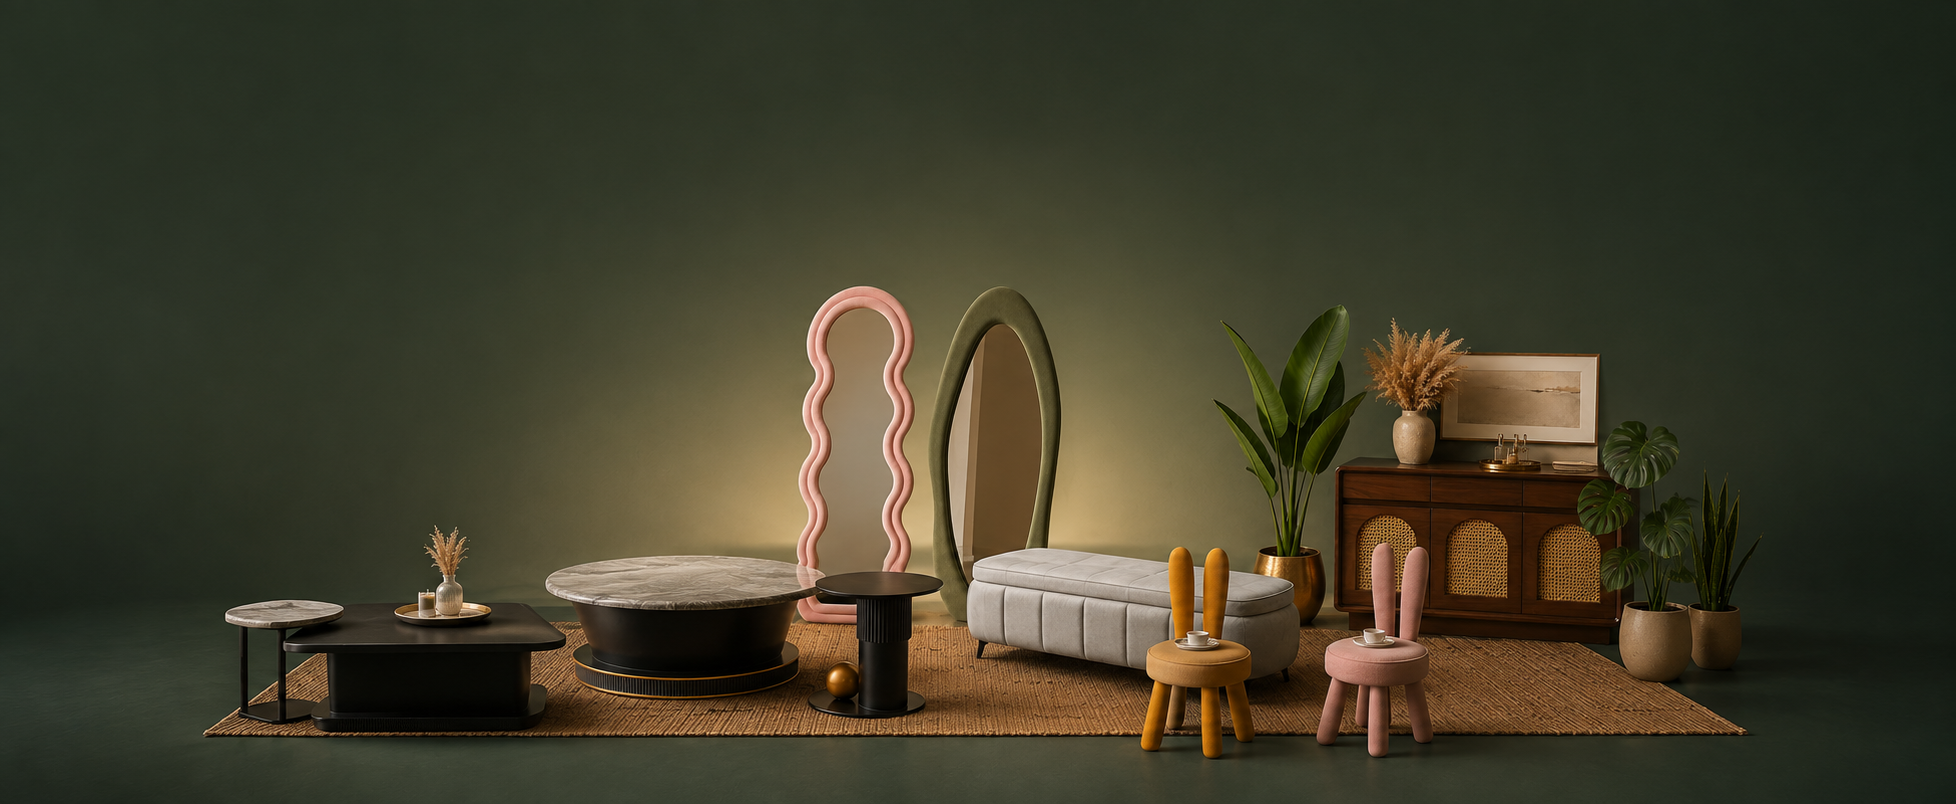
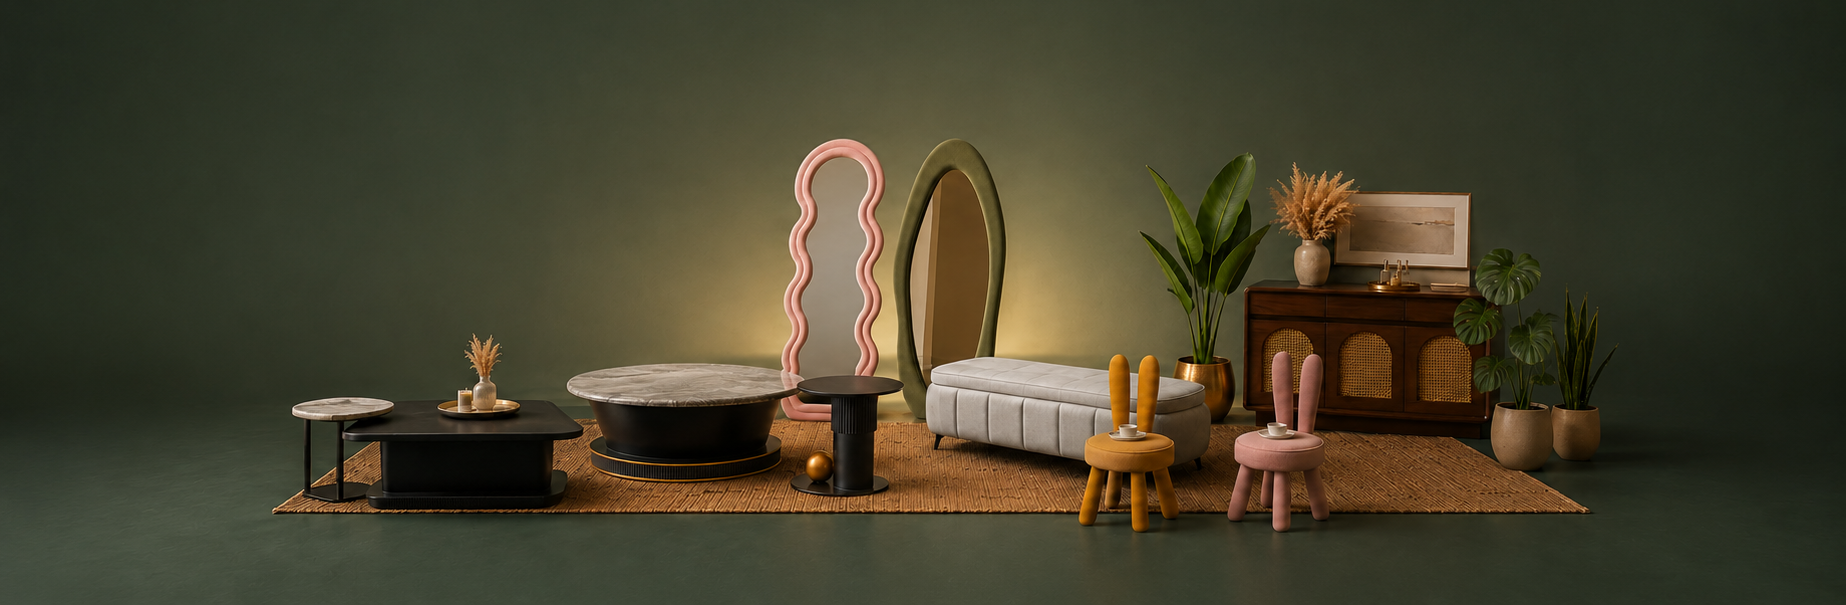
feat: implement 301 redirects for renamed/removed product slugs and enhance 404 handling for missing products and categories

diff --git a/src/components/home/shop-by-category.tsx b/src/components/home/shop-by-category.tsx
@@ -13,20 +13,22 @@ import { useReducedMotion } from "@/lib/use-reduced-motion"
 // photo (still our real product, just not in public/assets) until a
 // dedicated category shot is added there too.
 const CAT_IMAGES: Record<string, string> = {
-  "bedroom-sets":    "/assets/ashcombe-bedroom-set.png",
+  "bedroom-sets":    "/assets/wooden-bedroom-set-furniture-karachi.png",
   beds:              "/assets/wooden-bed-furniture-karachi.png",
   "dressing-tables": "/assets/dressing-table-vanity-furniture-karachi.png",
   wardrobes:         "/assets/wooden-wardrobe-furniture-karachi.png",
-  "side-tables":     "/assets/marble-top-ribbed-nightstand-round-beige-nightstand-2.png",
+  "side-tables":     "/assets/wooden-side-table-furniture-karachi.png",
   decor:             "/assets/wooden-decor-furniture-karachi.png",
 }
 
 // Square mobile crops of the same product photos — used below the lg
 // breakpoint where cards are shorter (120px) and 2-per-row.
 const CAT_IMAGES_MOBILE: Record<string, string> = {
+  "bedroom-sets":    "/assets/wooden-bedroom-set-furniture-karachi-mobile.png",
   beds:              "/assets/wooden-bed-furniture-karachi-mobile.png",
   "dressing-tables": "/assets/dressing-table-vanity-furniture-karachi-mobile.png",
   wardrobes:         "/assets/wooden-wardrobe-furniture-karachi-mobile.png",
+  "side-tables":     "/assets/wooden-side-table-furniture-karachi-mobile.png",
 }
 
 const categoryTones: Record<string, string> = {

diff --git a/next.config.ts b/next.config.ts
@@ -9,6 +9,18 @@ const withSerwist = withSerwistInit({
 
 const nextConfig: NextConfig = {
   turbopack: {},
+  // 301 redirects for product slugs that were renamed/removed so old URLs
+  // (still in Google's index / old backlinks) pass their equity to the
+  // current product instead of 404'ing. Keep in sync with live Sanity slugs.
+  async redirects() {
+    return [
+      { source: "/products/3-door-wardrobe", destination: "/products/glass-niche-wardrobe", permanent: true },
+      { source: "/products/cloud-boucle-bed", destination: "/products/cloud-bubble-bed", permanent: true },
+      { source: "/products/dressing-table-with-mirror", destination: "/shop/dressing-tables", permanent: true },
+      { source: "/products/king-foam-bed", destination: "/shop/beds", permanent: true },
+      { source: "/products/side-table-pair", destination: "/products/cloud-flare-leg-nightstand", permanent: true },
+    ]
+  },
   images: {
     // Next 16 requires an explicit allowlist; restricting it to just 90
     // means every <Image> that doesn't set its own `quality` prop (they

diff --git a/src/app/products/[slug]/page.tsx b/src/app/products/[slug]/page.tsx
@@ -11,7 +11,14 @@ import { BUSINESS_NAME } from "@/lib/site-config"
 export async function generateMetadata({ params }: { params: Promise<{ slug: string }> }): Promise<Metadata> {
   const { slug } = await params
   const product = await getProductBySlug(slug)
-  if (!product) return {}
+  // Missing product → real 404. Mark noindex so Google drops it instead of
+  // treating a "200 + homepage title" page as a Soft 404 that lingers.
+  if (!product) {
+    return {
+      title: "Page not found",
+      robots: { index: false, follow: false },
+    }
+  }
   const price = product.salePrice ?? product.basePrice
   return {
     title: product.name,

diff --git a/src/app/shop/[category]/page.tsx b/src/app/shop/[category]/page.tsx
@@ -14,7 +14,14 @@ export async function generateMetadata({
   const { category } = await params
   const categories = await getCategories()
   const cat = categories.find((c) => c.slug === category)
-  if (!cat) return {}
+  // Missing category → real 404. noindex so Google drops it cleanly rather
+  // than holding it as a Soft 404 with the homepage title.
+  if (!cat) {
+    return {
+      title: "Page not found",
+      robots: { index: false, follow: false },
+    }
+  }
 
   return {
     title: `${cat.name} — Shop`,
